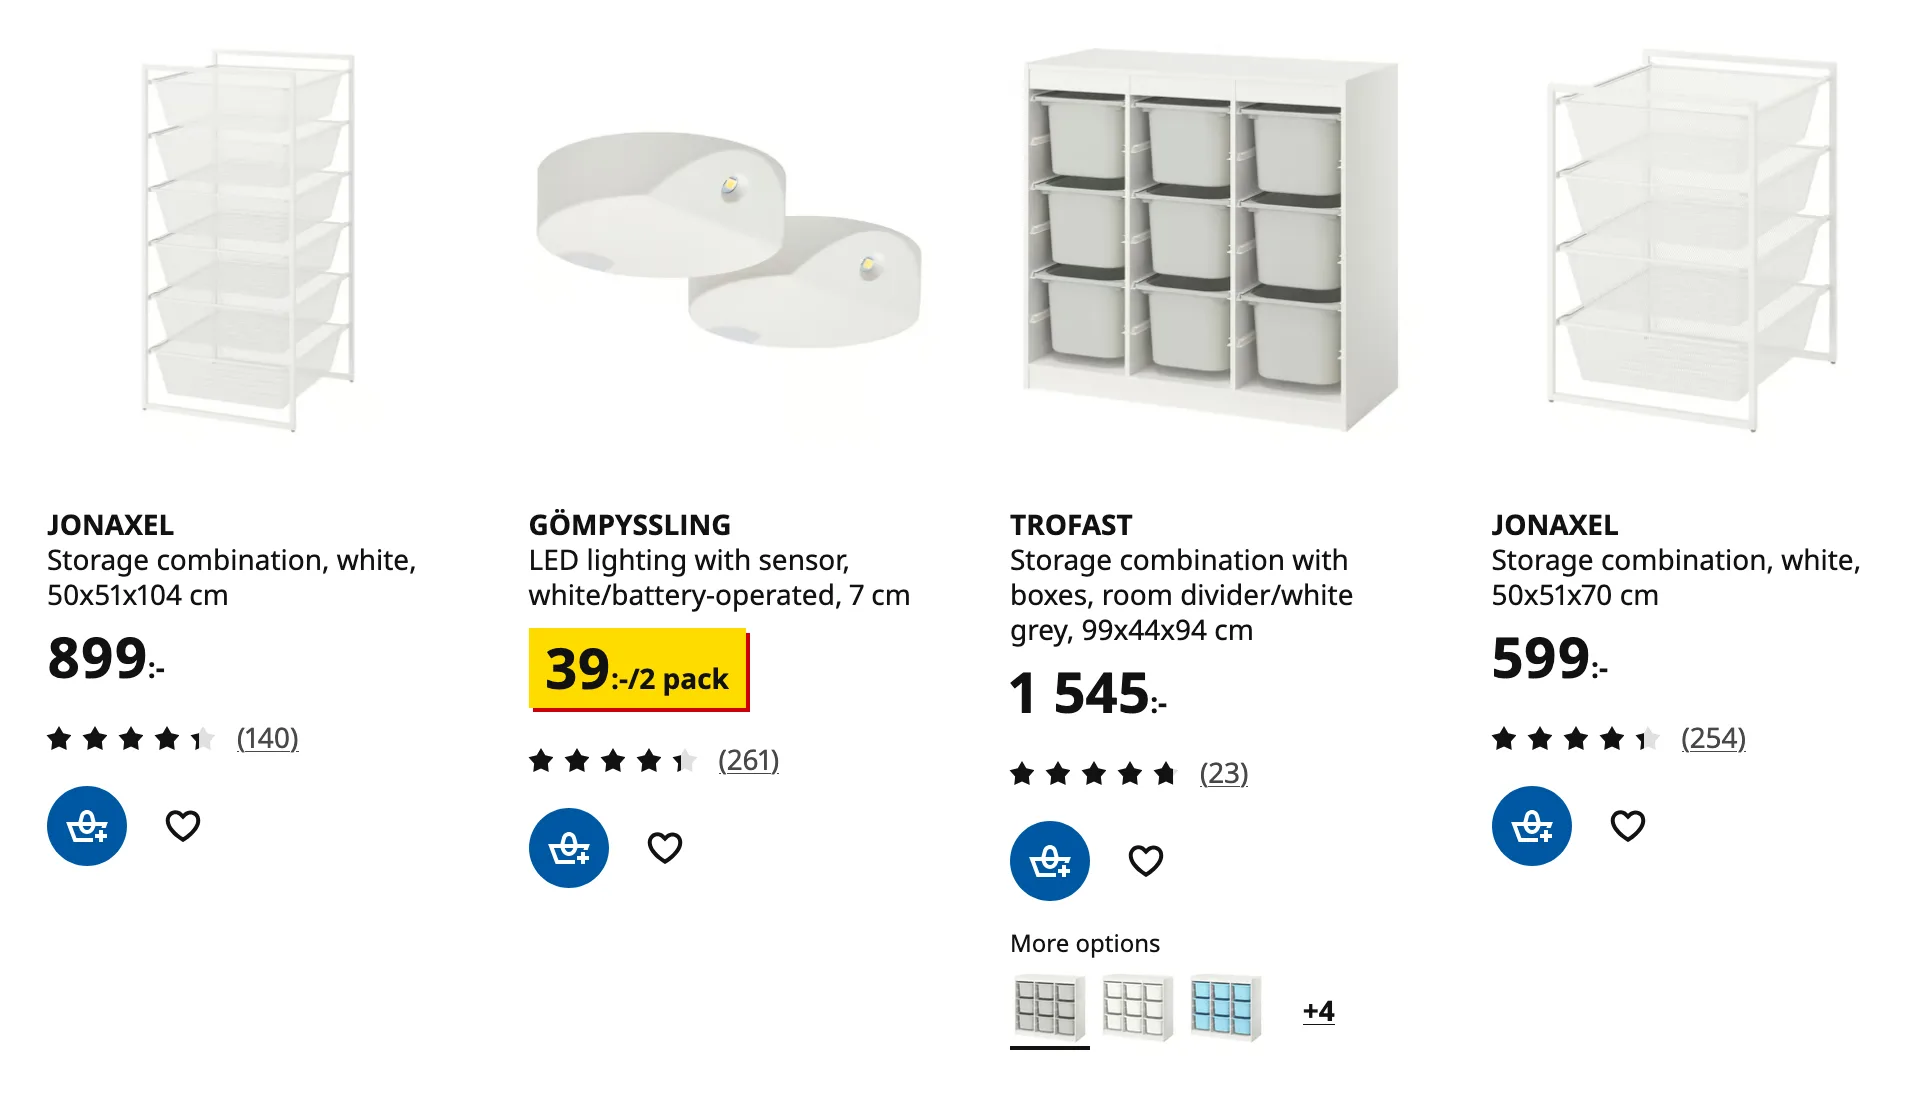
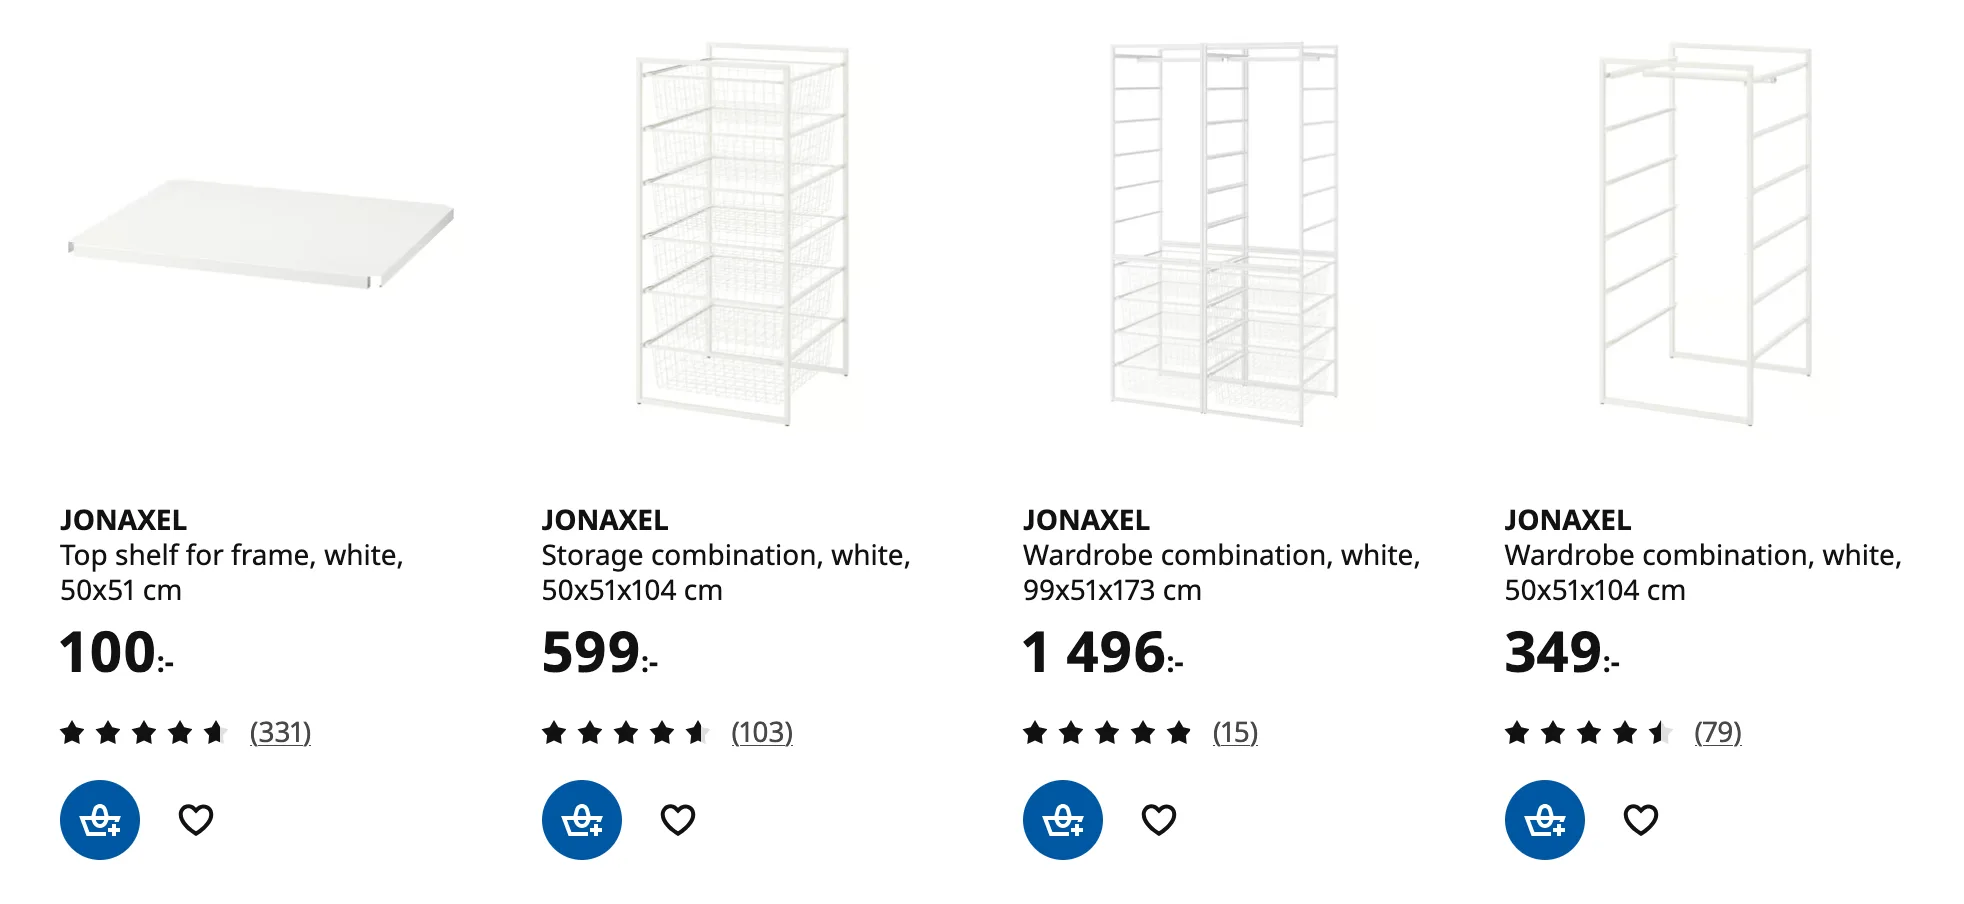
make the exercise more deterministic

diff --git a/sources/academy/webscraping/scraping_basics_javascript/07_extracting_data.md b/sources/academy/webscraping/scraping_basics_javascript/07_extracting_data.md
@@ -227,33 +227,25 @@ Well, not to spoil the excitement, but in its current form, the data isn't very 
 
 <Exercises />
 
-### Scrape dimensions of IKEA storage solutions
+### Scrape dimensions and prices from IKEA
 
-Download the [IKEA storage solutions page](https://www.ikea.com/se/en/cat/storage-solution-systems-46052/) and parse it with Cheerio. Print each listed product's title and dimensions.
+Download the [IKEA JONAXEL system page](https://www.ikea.com/se/en/cat/jonaxel-system-45730/) and parse it with Cheerio. Print each product's width, depth, height, and price.
 
 ![IKEA product listing](../scraping_basics/images/exercise-ikea.webp)
 
-Your output should resemble the following. The final three columns contain the width, depth, and height:
+Your output should resemble the following. Note that the page has prices in [SEK](https://www.google.com/search?q=1%20sek):
 
 ```text
-JONAXEL | w 50 | d 51 | h 104
-GÖMPYSSLING | w null | d null | h null
-TROFAST | w 99 | d 44 | h 94
-JONAXEL | w 50 | d 51 | h 70
-...
+50 | 51 | 104 ... 599 SEK
+99 | 51 | 173 ... 1496 SEK
+50 | 51 | 104 ... 349 SEK
 ```
 
-If a product card doesn't list all three dimensions, set all three values to `null`, as shown for GÖMPYSSLING.
+Skip products that don't list all three dimensions. For example, the top shelf in the image lists only its width and depth, so your program shouldn't print it.
 
 <details>
   <summary>Solution</summary>
   <CodeBlock language="js">{IkeaDimensionsExercise.code}</CodeBlock>
-
-  :::tip Conditional (ternary) operator
-
-  For brevity, the solution uses the [conditional (ternary) operator](https://developer.mozilla.org/en-US/docs/Web/JavaScript/Reference/Operators/Conditional_operator). You can achieve the same with a plain `if` and `else` block.
-
-  :::
 
 </details>
 
@@ -264,12 +256,6 @@ Simplify the code from the previous exercise. Use a [regular expression](https:/
 <details>
   <summary>Solution</summary>
   <CodeBlock language="js">{IkeaDimensionsRegexExercise.code}</CodeBlock>
-
-  :::tip Conditional (ternary) operator
-
-  For brevity, the solution uses the [conditional (ternary) operator](https://developer.mozilla.org/en-US/docs/Web/JavaScript/Reference/Operators/Conditional_operator). You can achieve the same with a plain `if` and `else` block.
-
-  :::
 
 </details>
 
